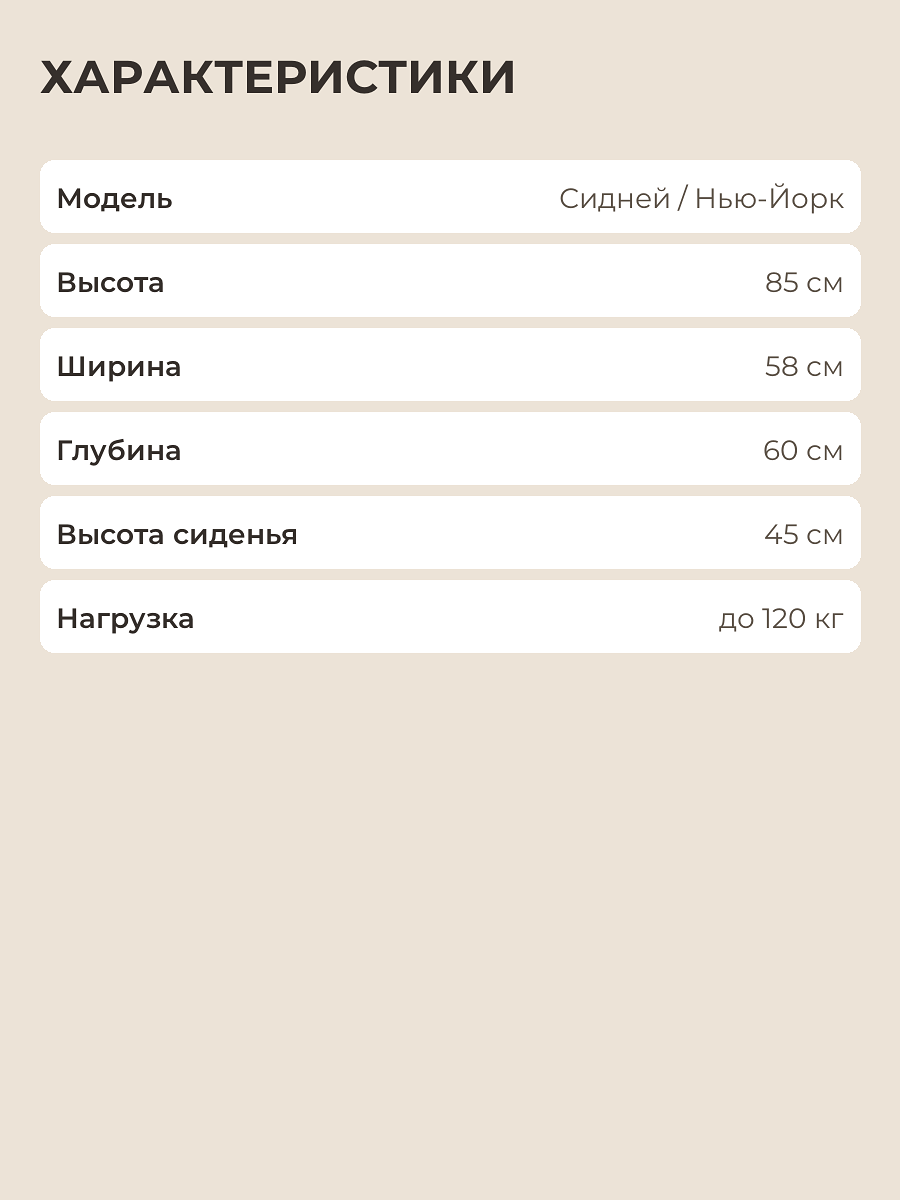
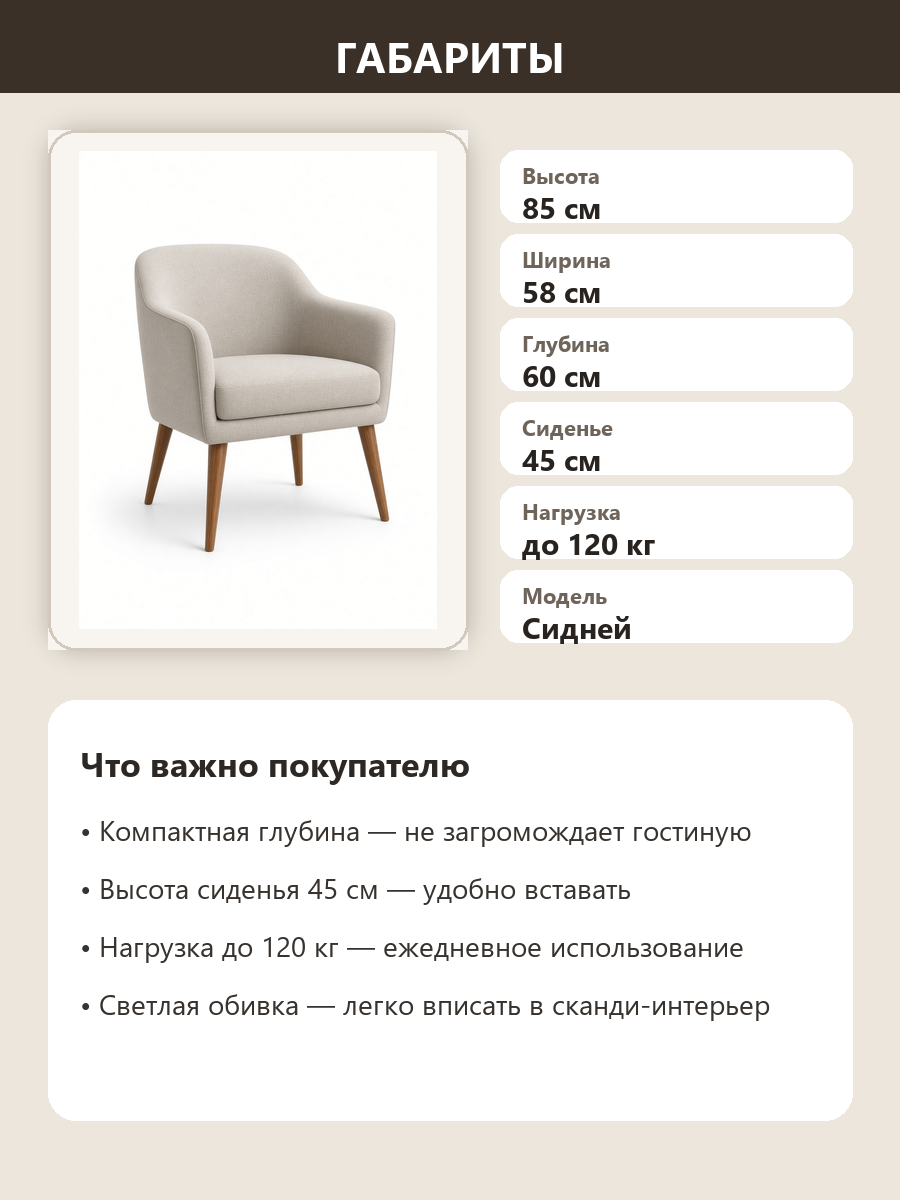
Upgrade sparse chair slides and lead Kwork showcase with stronger cases.

diff --git a/public/showcase/mp/index.html b/public/showcase/mp/index.html
@@ -42,7 +42,7 @@
   <section class="showcase-page-hero">
     <div class="container reveal">
       <h1 class="showcase-page-hero__title">Карточки Wildberries / Ozon</h1>
-      <p class="showcase-page-hero__text">Формат 3:4 (900×1200), AI-фото и инфографика под ТЗ. Три учебных кейса по реальным заказам с биржи — структура и тексты как у продавца.</p>
+      <p class="showcase-page-hero__text">Формат 3:4 (900×1200), AI-фото и инфографика под ТЗ. Пять учебных кейсов — техника, парфюм, мебель, декор, текстиль.</p>
     </div>
   </section>
 
@@ -100,37 +100,61 @@
 
       <article class="mp-case reveal">
         <div class="mp-case__head">
+          <div class="mp-case__tags">Техника · 6 слайдов</div>
+          <h3 class="mp-case__title">Портативный блендер</h3>
+        </div>
+        <div class="mp-slides">
+          <figure class="mp-slide"><img src="../../images/marketplace/case5/01_cover.jpg" alt="" loading="lazy" width="450" height="600"></figure>
+          <figure class="mp-slide"><img src="../../images/marketplace/case5/02_lifestyle.jpg" alt="" loading="lazy" width="450" height="600"></figure>
+          <figure class="mp-slide"><img src="../../images/marketplace/case5/04_benefits.jpg" alt="" loading="lazy" width="450" height="600"></figure>
+        </div>
+      </article>
+
+      <article class="mp-case reveal">
+        <div class="mp-case__head">
+          <div class="mp-case__tags">Парфюм · 5 слайдов</div>
+          <h3 class="mp-case__title">Духи с пирамидой нот</h3>
+        </div>
+        <div class="mp-slides">
+          <figure class="mp-slide"><img src="../../images/marketplace/case4/01_cover_pyramid.jpg" alt="" loading="lazy" width="450" height="600"></figure>
+          <figure class="mp-slide"><img src="../../images/marketplace/case4/03_notes.jpg" alt="" loading="lazy" width="450" height="600"></figure>
+          <figure class="mp-slide"><img src="../../images/marketplace/case4/04_benefits.jpg" alt="" loading="lazy" width="450" height="600"></figure>
+        </div>
+      </article>
+
+      <article class="mp-case reveal">
+        <div class="mp-case__head">
           <div class="mp-case__tags">Мебель · 6 слайдов</div>
           <h3 class="mp-case__title">Мягкое кресло</h3>
         </div>
         <div class="mp-slides">
           <figure class="mp-slide"><img src="../../images/marketplace/case1/01_cover_interior.png" alt="" loading="lazy" width="450" height="600"></figure>
-          <figure class="mp-slide"><img src="../../images/marketplace/case1/05_studio_product.png" alt="" loading="lazy" width="450" height="600"></figure>
-          <figure class="mp-slide"><img src="../../images/marketplace/case1/06_care_structure.png" alt="" loading="lazy" width="450" height="600"></figure>
+          <figure class="mp-slide"><img src="../../images/marketplace/case1/02_dimensions.png?v=20261027" alt="" loading="lazy" width="450" height="600"></figure>
+          <figure class="mp-slide"><img src="../../images/marketplace/case1/04_benefits.png?v=20261027" alt="" loading="lazy" width="450" height="600"></figure>
         </div>
       </article>
 
       <article class="mp-case reveal">
         <div class="mp-case__head">
-          <div class="mp-case__tags">Декор · 3 слайда</div>
+          <div class="mp-case__tags">Декор · 5 слайдов</div>
           <h3 class="mp-case__title">Навесная полка</h3>
         </div>
         <div class="mp-slides">
-          <figure class="mp-slide"><img src="../../images/marketplace/case2/01_card_space.png" alt="" loading="lazy" width="450" height="600"></figure>
-          <figure class="mp-slide"><img src="../../images/marketplace/case2/02_card_style.png" alt="" loading="lazy" width="450" height="600"></figure>
-          <figure class="mp-slide"><img src="../../images/marketplace/case2/03_specs.png" alt="" loading="lazy" width="450" height="600"></figure>
+          <figure class="mp-slide"><img src="../../images/marketplace/case2/01_cover.jpg" alt="" loading="lazy" width="450" height="600"></figure>
+          <figure class="mp-slide"><img src="../../images/marketplace/case2/03_specs_dims.jpg" alt="" loading="lazy" width="450" height="600"></figure>
+          <figure class="mp-slide"><img src="../../images/marketplace/case2/04_benefits.jpg" alt="" loading="lazy" width="450" height="600"></figure>
         </div>
       </article>
 
       <article class="mp-case reveal">
         <div class="mp-case__head">
-          <div class="mp-case__tags">Текстиль · 3 слайда</div>
+          <div class="mp-case__tags">Текстиль · 5 слайдов</div>
           <h3 class="mp-case__title">Плед-пончо</h3>
         </div>
         <div class="mp-slides">
-          <figure class="mp-slide"><img src="../../images/marketplace/case3/01_lifestyle_trial.png" alt="" loading="lazy" width="450" height="600"></figure>
-          <figure class="mp-slide"><img src="../../images/marketplace/case3/02_product_reference.png" alt="" loading="lazy" width="450" height="600"></figure>
-          <figure class="mp-slide"><img src="../../images/marketplace/case3/03_care.png" alt="" loading="lazy" width="450" height="600"></figure>
+          <figure class="mp-slide"><img src="../../images/marketplace/case3/01_cover.jpg" alt="" loading="lazy" width="450" height="600"></figure>
+          <figure class="mp-slide"><img src="../../images/marketplace/case3/03_benefits.jpg" alt="" loading="lazy" width="450" height="600"></figure>
+          <figure class="mp-slide"><img src="../../images/marketplace/case3/05_care.jpg" alt="" loading="lazy" width="450" height="600"></figure>
         </div>
       </article>
 

diff --git a/public/marketplace/index.html b/public/marketplace/index.html
@@ -93,11 +93,11 @@
 
         <div class="mp-slides mp-slides--expandable" id="chairSlides" data-expandable>
           <figure class="mp-slide"><img src="../images/marketplace/case1/01_cover_interior.png" alt="Обложка, интерьер" loading="lazy" width="450" height="600"><figcaption>01 · обложка</figcaption></figure>
-          <figure class="mp-slide"><img src="../images/marketplace/case1/02_dimensions.png" alt="Габариты" loading="lazy" width="450" height="600"><figcaption>02 · габариты</figcaption></figure>
+          <figure class="mp-slide"><img src="../images/marketplace/case1/02_dimensions.png?v=20261027" alt="Габариты" loading="lazy" width="450" height="600"><figcaption>02 · габариты</figcaption></figure>
           <figure class="mp-slide"><img src="../images/marketplace/case1/03_fabric_detail.png" alt="Ткань" loading="lazy" width="450" height="600"><figcaption>03 · ткань</figcaption></figure>
-          <figure class="mp-slide mp-slide--more"><img src="../images/marketplace/case1/04_benefits.png" alt="Преимущества" loading="lazy" width="450" height="600"><figcaption>04 · выгоды</figcaption></figure>
-          <figure class="mp-slide mp-slide--more"><img src="../images/marketplace/case1/05_studio_product.png" alt="Студия" loading="lazy" width="450" height="600"><figcaption>05 · студия</figcaption></figure>
-          <figure class="mp-slide mp-slide--more"><img src="../images/marketplace/case1/06_care_structure.png" alt="Уход и комплектация" loading="lazy" width="450" height="600"><figcaption>06 · уход</figcaption></figure>
+          <figure class="mp-slide mp-slide--more"><img src="../images/marketplace/case1/04_benefits.png?v=20261027" alt="Преимущества" loading="lazy" width="450" height="600"><figcaption>04 · выгоды</figcaption></figure>
+          <figure class="mp-slide mp-slide--more"><img src="../images/marketplace/case1/05_studio_product.png?v=20261027" alt="Студия" loading="lazy" width="450" height="600"><figcaption>05 · студия</figcaption></figure>
+          <figure class="mp-slide mp-slide--more"><img src="../images/marketplace/case1/06_care_structure.png?v=20261027" alt="Уход и комплектация" loading="lazy" width="450" height="600"><figcaption>06 · уход</figcaption></figure>
         </div>
         <button type="button" class="btn btn--ghost mp-slides-more" data-expand-target="chairSlides" aria-expanded="false">Показать все 6 слайдов</button>
 
@@ -161,7 +161,7 @@
                     </figure>
                     <span class="mp-compare__arrow" aria-hidden="true">→</span>
                     <figure class="mp-compare__card">
-                      <img src="../images/marketplace/case1/05_studio_product.png" alt="Финал: студийный слайд" loading="lazy" width="450" height="600">
+                      <img src="../images/marketplace/case1/05_studio_product.png?v=20261027" alt="Финал: студийный слайд" loading="lazy" width="450" height="600">
                       <figcaption>Слайд 05 · в комплекте с инфографикой</figcaption>
                     </figure>
                   </div>

diff --git a/scripts/upgrade_mp_slides.py b/scripts/upgrade_mp_slides.py
@@ -1,0 +1,277 @@
+"""Rebuild sparse marketplace slides (case1) into denser 900x1200 cards."""
+from __future__ import annotations
+
+from pathlib import Path
+
+from PIL import Image, ImageDraw, ImageFont, ImageFilter
+
+ROOT = Path(__file__).resolve().parents[1]
+CASE1 = ROOT / "public" / "images" / "marketplace" / "case1"
+W, H = 900, 1200
+
+FONT = r"C:\Windows\Fonts\segoeui.ttf"
+FONT_B = r"C:\Windows\Fonts\segoeuib.ttf"
+
+
+def font(size: int, bold: bool = False) -> ImageFont.FreeTypeFont:
+    return ImageFont.truetype(FONT_B if bold else FONT, size)
+
+
+def round_rect(draw: ImageDraw.ImageDraw, box, radius: int, fill):
+    draw.rounded_rectangle(box, radius=radius, fill=fill)
+
+
+def fit_cover(im: Image.Image, size: tuple[int, int]) -> Image.Image:
+    tw, th = size
+    src = im.convert("RGB")
+    sw, sh = src.size
+    scale = max(tw / sw, th / sh)
+    nw, nh = int(sw * scale), int(sh * scale)
+    src = src.resize((nw, nh), Image.Resampling.LANCZOS)
+    left = (nw - tw) // 2
+    top = (nh - th) // 2
+    return src.crop((left, top, left + tw, top + th))
+
+
+def fit_contain(im: Image.Image, box: tuple[int, int, int, int], bg=(245, 242, 236)) -> Image.Image:
+    x0, y0, x1, y1 = box
+    tw, th = x1 - x0, y1 - y0
+    canvas = Image.new("RGB", (tw, th), bg)
+    src = im.convert("RGBA")
+    sw, sh = src.size
+    scale = min(tw / sw, th / sh) * 0.92
+    nw, nh = max(1, int(sw * scale)), max(1, int(sh * scale))
+    src = src.resize((nw, nh), Image.Resampling.LANCZOS)
+    canvas.paste(src, ((tw - nw) // 2, (th - nh) // 2), src if src.mode == "RGBA" else None)
+    return canvas
+
+
+def wrap(draw, text: str, fnt, max_width: int) -> list[str]:
+    words = text.split()
+    lines: list[str] = []
+    cur = ""
+    for w in words:
+        trial = f"{cur} {w}".strip()
+        if draw.textlength(trial, font=fnt) <= max_width:
+            cur = trial
+        else:
+            if cur:
+                lines.append(cur)
+            cur = w
+    if cur:
+        lines.append(cur)
+    return lines or [text]
+
+
+def draw_header(draw, title: str, bg=(54, 42, 34), y=0, h=92):
+    draw.rectangle((0, y, W, y + h), fill=bg)
+    f = font(42, bold=True)
+    bbox = draw.textbbox((0, 0), title, font=f)
+    tw = bbox[2] - bbox[0]
+    th = bbox[3] - bbox[1]
+    draw.text(((W - tw) / 2, y + (h - th) / 2 - 4), title, font=f, fill=(255, 255, 255))
+
+
+def pill_rows(draw, items: list[tuple[str, str]] | list[str], y_start: int, *, pair=False):
+    f_label = font(28, bold=True)
+    f_val = font(28, bold=False)
+    f_single = font(30, bold=False)
+    gap = 18
+    pill_h = 78
+    x0, x1 = 48, W - 48
+    y = y_start
+    for item in items:
+        round_rect(draw, (x0, y, x1, y + pill_h), 22, (255, 255, 255))
+        if pair:
+            label, value = item  # type: ignore[misc]
+            draw.text((x0 + 28, y + 22), label, font=f_label, fill=(45, 45, 45))
+            vw = draw.textlength(value, font=f_val)
+            draw.text((x1 - 28 - vw, y + 22), value, font=f_val, fill=(70, 70, 70))
+        else:
+            text = item if isinstance(item, str) else item[0]
+            lines = wrap(draw, text, f_single, x1 - x0 - 56)
+            line_h = 32
+            total = line_h * len(lines)
+            ty = y + (pill_h - total) / 2 - 2
+            for i, line in enumerate(lines[:2]):
+                draw.text((x0 + 28, ty + i * line_h), line, font=f_single, fill=(40, 40, 40))
+        y += pill_h + gap
+    return y
+
+
+def build_dimensions():
+    bg = (236, 230, 220)
+    out = Image.new("RGB", (W, H), bg)
+    draw = ImageDraw.Draw(out)
+    draw_header(draw, "ГАБАРИТЫ", bg=(58, 48, 40))
+
+    studio = Image.open(CASE1 / "source_chair_studio.png")
+    photo = fit_contain(studio, (0, 0, 420, 520), bg=(248, 245, 240))
+    # soft shadow
+    shadow = Image.new("RGBA", (W, H), (0, 0, 0, 0))
+    sd = ImageDraw.Draw(shadow)
+    sd.rounded_rectangle((48, 130, 48 + 420, 130 + 520), 28, fill=(0, 0, 0, 55))
+    shadow = shadow.filter(ImageFilter.GaussianBlur(12))
+    out = Image.alpha_composite(out.convert("RGBA"), shadow).convert("RGB")
+    draw = ImageDraw.Draw(out)
+    out.paste(photo, (48, 130))
+    # frame
+    draw.rounded_rectangle((48, 130, 48 + 420, 130 + 520), 28, outline=(210, 200, 188), width=3)
+
+    # dimension callouts on right of photo
+    specs = [
+        ("Высота", "85 см"),
+        ("Ширина", "58 см"),
+        ("Глубина", "60 см"),
+        ("Сиденье", "45 см"),
+        ("Нагрузка", "до 120 кг"),
+        ("Модель", "Сидней"),
+    ]
+    y = 150
+    for label, value in specs:
+        round_rect(draw, (500, y, W - 48, y + 72), 18, (255, 255, 255))
+        draw.text((522, y + 10), label, font=font(22, True), fill=(110, 100, 90))
+        draw.text((522, y + 36), value, font=font(30, True), fill=(40, 35, 30))
+        y += 84
+
+    # bottom tip
+    round_rect(draw, (48, 700, W - 48, 1120), 28, (255, 255, 255))
+    draw.text((80, 740), "Что важно покупателю", font=font(34, True), fill=(45, 40, 35))
+    tips = [
+        "• Компактная глубина — не загромождает гостиную",
+        "• Высота сиденья 45 см — удобно вставать",
+        "• Нагрузка до 120 кг — ежедневное использование",
+        "• Светлая обивка — легко вписать в сканди-интерьер",
+    ]
+    yy = 810
+    for t in tips:
+        draw.text((80, yy), t, font=font(28), fill=(55, 50, 45))
+        yy += 58
+
+    out.save(CASE1 / "02_dimensions.png", optimize=True)
+    print("wrote 02_dimensions.png")
+
+
+def build_benefits():
+    bg = (240, 234, 226)
+    out = Image.new("RGB", (W, H), bg)
+    draw = ImageDraw.Draw(out)
+    draw_header(draw, "ПРЕИМУЩЕСТВА", bg=(58, 48, 40))
+
+    studio = Image.open(CASE1 / "source_chair_studio.png")
+    # top photo strip
+    strip = fit_cover(studio, (W - 96, 420))
+    shadow = Image.new("RGBA", (W, H), (0, 0, 0, 0))
+    sd = ImageDraw.Draw(shadow)
+    sd.rounded_rectangle((48, 120, W - 48, 120 + 420), 28, fill=(0, 0, 0, 50))
+    shadow = shadow.filter(ImageFilter.GaussianBlur(10))
+    out = Image.alpha_composite(out.convert("RGBA"), shadow).convert("RGB")
+    draw = ImageDraw.Draw(out)
+    # mask rounded paste
+    mask = Image.new("L", strip.size, 0)
+    ImageDraw.Draw(mask).rounded_rectangle((0, 0, strip.size[0], strip.size[1]), 28, fill=255)
+    out.paste(strip, (48, 120), mask)
+
+    benefits = [
+        "Мягкое сиденье и спинка — комфорт каждый день",
+        "Светлая обивка — легко сочетается со сканди",
+        "Деревянные ножки — устойчивость и аккуратный вид",
+        "Гостиная, спальня, кабинет, кухня-столовая",
+    ]
+    y = 580
+    for i, text in enumerate(benefits, 1):
+        round_rect(draw, (48, y, W - 48, y + 110), 24, (255, 255, 255))
+        # number badge
+        cx, cy = 98, y + 55
+        draw.ellipse((cx - 28, cy - 28, cx + 28, cy + 28), fill=(58, 48, 40))
+        n = str(i)
+        nf = font(28, True)
+        nb = draw.textbbox((0, 0), n, font=nf)
+        draw.text((cx - (nb[2] - nb[0]) / 2, cy - (nb[3] - nb[1]) / 2 - 2), n, font=nf, fill=(255, 255, 255))
+        lines = wrap(draw, text, font(28), W - 220)
+        ty = y + 28 if len(lines) == 1 else y + 22
+        for j, line in enumerate(lines[:2]):
+            draw.text((150, ty + j * 34), line, font=font(28), fill=(40, 35, 30))
+        y += 128
+
+    draw.text(
+        (48, 1145),
+        "Цвет ткани на фото может незначительно отличаться от партии.",
+        font=font(20),
+        fill=(120, 110, 100),
+    )
+    out.save(CASE1 / "04_benefits.png", optimize=True)
+    print("wrote 04_benefits.png")
+
+
+def build_studio():
+    studio = Image.open(CASE1 / "source_chair_studio.png")
+    photo = fit_cover(studio, (W, H))
+    out = photo.convert("RGBA")
+    overlay = Image.new("RGBA", (W, H), (0, 0, 0, 0))
+    d = ImageDraw.Draw(overlay)
+    # bottom panel
+    d.rounded_rectangle((36, 920, W - 36, 1160), 28, fill=(35, 30, 28, 210))
+    out = Image.alpha_composite(out, overlay)
+    draw = ImageDraw.Draw(out)
+    draw.text((70, 960), "Мягкое кресло Сидней", font=font(40, True), fill=(255, 255, 255))
+    draw.text((70, 1020), "Студийный ракурс · цвет и форма без отвлечений", font=font(26), fill=(230, 225, 220))
+    chips = ["букле", "дерево", "до 120 кг"]
+    x = 70
+    for chip in chips:
+        f = font(22, True)
+        tw = draw.textlength(chip, font=f)
+        draw.rounded_rectangle((x, 1080, x + tw + 36, 1130), 18, fill=(255, 255, 255, 230))
+        draw.text((x + 18, 1088), chip, font=f, fill=(40, 35, 30))
+        x += tw + 52
+    out.convert("RGB").save(CASE1 / "05_studio_product.png", optimize=True)
+    print("wrote 05_studio_product.png")
+
+
+def build_care():
+    bg = (236, 230, 220)
+    out = Image.new("RGB", (W, H), bg)
+    draw = ImageDraw.Draw(out)
+    draw_header(draw, "КОМПЛЕКТАЦИЯ И УХОД", bg=(58, 48, 40))
+
+    studio = Image.open(CASE1 / "source_chair_studio.png")
+    photo = fit_contain(studio, (0, 0, W - 96, 480), bg=(248, 245, 240))
+    shadow = Image.new("RGBA", (W, H), (0, 0, 0, 0))
+    sd = ImageDraw.Draw(shadow)
+    sd.rounded_rectangle((48, 120, W - 48, 120 + 480), 28, fill=(0, 0, 0, 50))
+    shadow = shadow.filter(ImageFilter.GaussianBlur(10))
+    out = Image.alpha_composite(out.convert("RGBA"), shadow).convert("RGB")
+    draw = ImageDraw.Draw(out)
+    mask = Image.new("L", photo.size, 0)
+    ImageDraw.Draw(mask).rounded_rectangle((0, 0, photo.size[0], photo.size[1]), 28, fill=255)
+    out.paste(photo, (48, 120), mask)
+
+    items = [
+        ("Комплект", "кресло, ножки ×4, крепёж, инструкция"),
+        ("Обивка", "износостойкий текстиль, сухая чистка"),
+        ("Каркас", "усиленный, ежедневная нагрузка"),
+        ("Уход", "не отбеливать; пятна — мягкой салфеткой"),
+    ]
+    y = 640
+    for label, value in items:
+        round_rect(draw, (48, y, W - 48, y + 110), 24, (255, 255, 255))
+        draw.text((80, y + 18), label, font=font(24, True), fill=(120, 105, 90))
+        lines = wrap(draw, value, font(30), W - 160)
+        draw.text((80, y + 54), lines[0], font=font(30), fill=(40, 35, 30))
+        if len(lines) > 1:
+            draw.text((80, y + 88), lines[1], font=font(28), fill=(40, 35, 30))
+        y += 128
+
+    out.save(CASE1 / "06_care_structure.png", optimize=True)
+    print("wrote 06_care_structure.png")
+
+
+def main():
+    build_dimensions()
+    build_benefits()
+    build_studio()
+    build_care()
+
+
+if __name__ == "__main__":
+    main()
